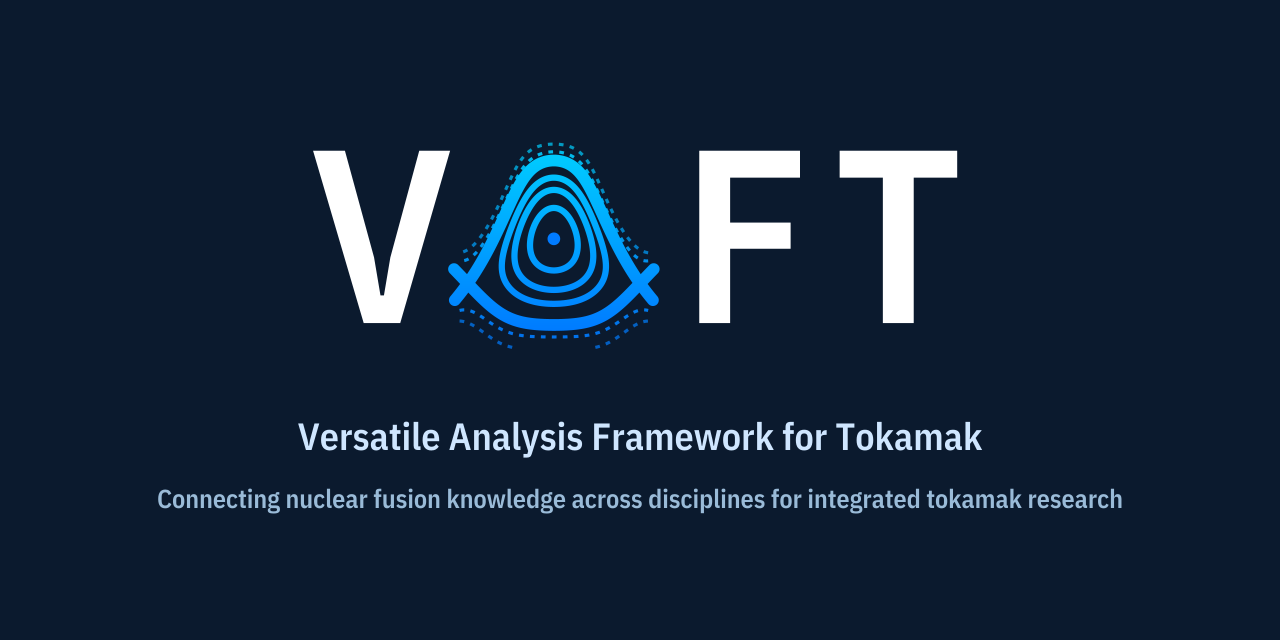
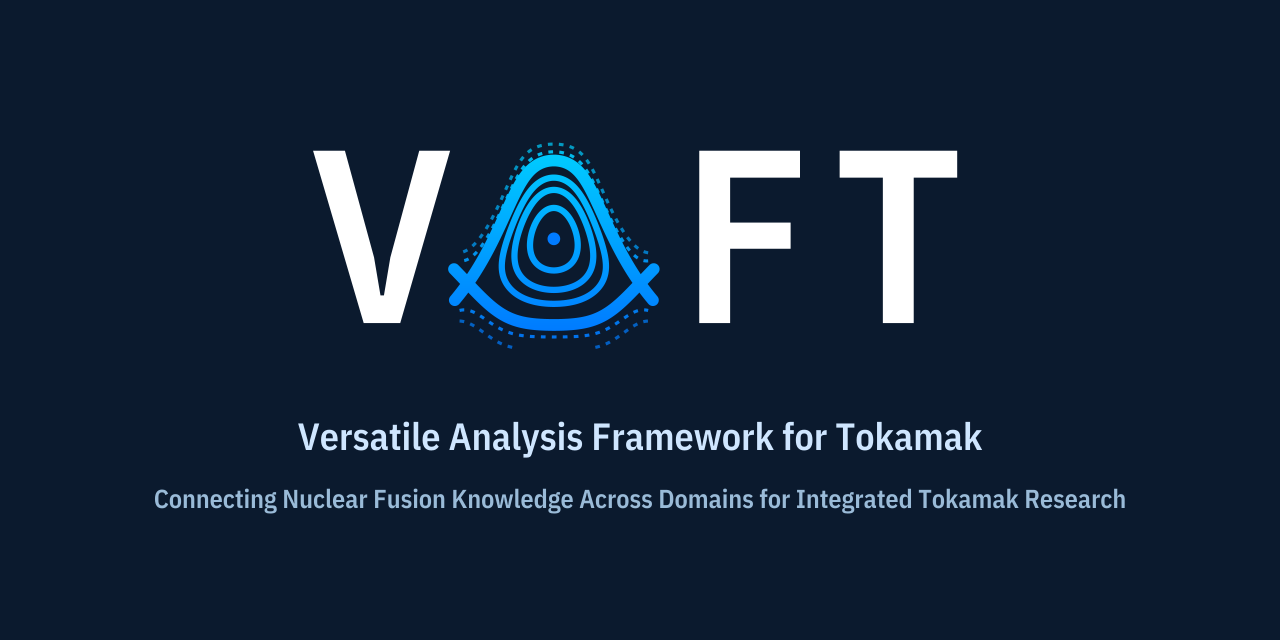
Add the Research domains reference and the 'Across Domains' tagline (#1872)
/reference/research-domains/ separates research modes, physics domains,
research activities, computational layers, scientific representations and
applicability domains, shows how modes and domains intersect with the
existing components, and walks equilibrium research through one shared
representation. It reuses the canonical diagrams; no new diagram, class
or vocabulary. Back-links from Scientific architecture, Diagrams, Ontology
and the homepage.

The owner approved the tagline 'Connecting Nuclear Fusion Knowledge
Across Domains for Integrated Tokamak Research'; the page defines that
scope. Synchronized in both READMEs, the homepage hero, the brand
generator and the regenerated social preview, and the consistency tests.

Changed region(s): [[0.2812, 0.75, 0.875, 0.8125], [0.125, 0.75, 0.25, 0.8125]]

diff --git a/docs/tests/visual/docs.spec.js b/docs/tests/visual/docs.spec.js
@@ -23,7 +23,7 @@ test('homepage exposes equal workflow and reference entry paths', async ({ page 
 test('homepage hero keeps the approved message and readable theme logo', async ({ page }) => {
   await page.goto('');
   await expect(page.locator('.vaft-hero-tagline')).toHaveText(
-    'Connecting nuclear fusion knowledge across disciplines for integrated tokamak research',
+    'Connecting Nuclear Fusion Knowledge Across Domains for Integrated Tokamak Research',
   );
   await expect(page.locator('.vaft-hero-summary')).toHaveText(
     'Machine-agnostic workflows for interoperable IMAS data and reproducible tokamak analysis.',

diff --git a/test/test_readme_consistency.py b/test/test_readme_consistency.py
@@ -14,10 +14,10 @@ KOREAN = ROOT / "README.ko.md"
 NOTICES = ROOT / "THIRD_PARTY_NOTICES.md"
 NOTICES_KO = ROOT / "THIRD_PARTY_NOTICES.ko.md"
 
-#: The approved #1763 brand message leads both language versions.
+#: The approved brand message (#1763, "domains" wording approved in #1872) leads both language versions.
 CORE_MESSAGES = {
-    ENGLISH: "Connecting nuclear fusion knowledge across disciplines for integrated tokamak research",
-    KOREAN: "여러 분야의 핵융합 지식을 연결해 통합적인 토카막 연구를 돕습니다",
+    ENGLISH: "Connecting Nuclear Fusion Knowledge Across Domains for Integrated Tokamak Research",
+    KOREAN: "여러 연구 영역의 핵융합 지식을 연결해 통합적인 토카막 연구를 돕습니다",
 }
 
 #: Capabilities that must not be described as current functionality (#330 §4).

diff --git a/docs/assets/brand/make_brand_assets.py b/docs/assets/brand/make_brand_assets.py
@@ -37,7 +37,7 @@ from vaft.process.equilibrium import (
 
 HERE = Path(__file__).resolve().parent
 WORDMARK_FONT = HERE / "fonts" / "IBMPlexSansCondensed-SemiBold.ttf"
-TAGLINE = "Connecting nuclear fusion knowledge across disciplines for integrated tokamak research"
+TAGLINE = "Connecting Nuclear Fusion Knowledge Across Domains for Integrated Tokamak Research"
 
 R0, A_MINOR, KAPPA, DELTA = 1.0, 0.55, 1.75, 0.45
 BRANCH_LENGTH = 0.13 * 1.5        # natural local branch x lengthening factor [R0]

diff --git a/docs/_guide/Research_domains.md b/docs/_guide/Research_domains.md
@@ -1,0 +1,145 @@
+---
+title: Research domains
+author: VEST team
+date: 2026-10-10 09:00
+category: guide
+layout: post
+permalink: /reference/research-domains/
+guide:
+  architecture: "The conceptual map of what VAFT connects: research modes, physics domains, research activities and scientific states, and how they meet through standardized representations (issue #1872). It defines no runtime abstraction and no new vocabulary."
+  prerequisites: None. The Scientific architecture page says how the software is organized; this page says what research it serves.
+  expected: "Which word to use for which classification, why experiment, theory, modelling and AI/ML are not physics domains, and how one physics question (equilibrium) is answered by several research modes through one shared representation."
+related:
+  api: [diagram, imas]
+---
+
+VAFT's tagline is *Connecting Nuclear Fusion Knowledge Across Domains for Integrated Tokamak Research*. In
+that sentence, **domains** has a defined scope: the **research modes** that produce and use knowledge
+(experiment, theory, modelling, AI/ML) *and* the **physics domains** that knowledge is about (equilibrium,
+stability, transport, ...). VAFT connects them through standardized scientific states. It replaces neither
+the modes nor the specialized codes of each domain.
+
+This page fixes the vocabulary. It introduces no runtime class, registry or ontology: every term below is
+already used by a VAFT page, diagram or registry, and each section links to the one that owns it.
+
+## Six classifications that overlap
+
+These are different questions about the same work, not one hierarchy. A single analysis has a place on
+every axis at once.
+
+| Classification | Answers | Examples | Owned by |
+| --- | --- | --- | --- |
+| **Research modes** | How is knowledge produced, evaluated and applied? | Experiment, Theory, Modelling & Simulation, Data-driven methods (AI/ML) | the common-model diagrams below |
+| **Physics domains** | What is it about? | Equilibrium, MHD stability, transport and turbulence, plasma initiation, impurities | the subjects of [`vaft.plot.taxonomy`]({{ '/reference/ontology/' | relative_url }}) and the [Computational layers]({{ '/reference/computational-layers/' | relative_url }}) granularity rule |
+| **Research activities** | What is being done? | Planning, measurement, processing, reconstruction, modelling, validation, synthesis | the [fusion research ecosystem](#research-activities-and-scientific-states) |
+| **Computational layers** | Where does the computation live in VAFT? | Formula, Process, Code | [Computational layers]({{ '/reference/computational-layers/' | relative_url }}) |
+| **Scientific representations** | How is the result stored and exchanged? | IMAS IDS, OMAS `ODS`, the planned `DD`/`DDView` | [Fusion data structure and IMAS concepts]({{ '/reference/imas-concepts/' | relative_url }}) |
+| **Applicability domains** | Under which conditions is a model or result valid? | Parameter ranges, plasma regimes, ordering assumptions | [Credibility and applicability]({{ '/reference/credibility-applicability/' | relative_url }}), [Plasma models, orderings, and scales]({{ '/reference/plasma-models/' | relative_url }}) |
+
+Two consequences matter in practice:
+
+- **A research mode is not a physics domain.** Experiment and modelling both study equilibrium, and
+  equilibrium is studied by all four modes. "Theory" is never a subject area here, and "equilibrium" is never a
+  method.
+- **A physics domain is not a computational layer.** Equilibrium work spans a Formula (Solov'ev), a Process
+  (flux-surface geometry), and Codes (EFIT, CHEASE, TokaMaker). Several codes in one physics domain do not
+  make a shared abstraction by themselves ([When an Actor is justified]({{ '/reference/computational-layers/' | relative_url }}#when-an-actor-is-justified)).
+
+### Which word to use
+
+- **Research modes** for experiment, theory, modelling and simulation, and data-driven methods (AI/ML).
+- **Physics domains** for subject areas and physical processes.
+- **Research domains** only with its scope stated, as the tagline does: the modes and the physics domains together.
+- **Research activities** for what researchers do; **research roles** for who does it (a person may combine roles).
+- **Application contexts** for where the science is used: existing fusion experiments, and future devices and
+  reactor concepts (the two contexts of `machine_agnostic_architecture`).
+
+`domain` keeps its established technical meanings, and nothing is renamed: `PlotSpec.domain` is the IDS a plot
+reads, `integrated_scientific_framework(domain="equilibrium")` selects a physics domain, and an applicability
+domain is a validity range. Each is unambiguous in its own context.
+
+## Research modes and physics domains intersect
+
+Every cell below is an existing VAFT component; a dash means VAFT has none today. The rows are physics
+domains and the columns are research modes, so one row is one physics question answered several ways.
+
+| Physics domain | Experiment | Theory | Modelling & simulation | Data-driven (AI/ML) |
+| --- | --- | --- | --- | --- |
+| Equilibrium | magnetics mapping and EFIT reconstruction (`vaft.code.efit`) | Solov'ev equilibria (`vaft.process.equilibrium.solovev_*`), virial and shape formulas (`vaft.formula`) | CHEASE, TokaMaker (`vaft.code`) | — |
+| MHD stability | spectral analysis of measured fluctuations (`vaft.process.fluctuation`) | stability formulas, ordering parameters and analytic islands (`vaft.formula.stability`, `vaft.formula.ordering`, `vaft.process.magnetic_island`) | DCON, RDCON, STRIDE, GPEC (`vaft.code.gpec`) | the learned-model backbone (`vaft.process.ml`) |
+| Transport and turbulence | Thomson and charge-exchange profile fits (`vaft.process.profile`) | neoclassical and confinement-scaling formulas (`vaft.formula.neoclassical`, `vaft.formula.equilibrium`) | TGLF, NEO, CGYRO, NUBEAM (`vaft.code.gacode`, `vaft.code.nubeam`) | TGLF neural-network surrogates (`vaft.code.gacode.tglf.surrogate`) |
+| Plasma initiation | signal-onset and active-window detection (`vaft.process.onset`) | Townsend and start-up formulas (`vaft.formula.startup`) | vacuum-field and eddy-current models (`vaft.process.electromagnetics`) | — |
+
+The diagrams draw the same intersection for one domain. The four modes sit around one common data model, and
+with `domain="equilibrium"` each mode's representative equilibrium route appears:
+
+![Integrated scientific framework: equilibrium]({{ '/assets/diagrams/integrated_scientific_framework_equilibrium.svg' | relative_url }})
+
+## Research activities and scientific states
+
+Research activities are what the modes do, and scientific states are what passes between them. The ecosystem
+figure (#1643) arranges research roles, six activity groups and the shared states:
+
+- **Activities**: Ask & Plan; Produce & Observe; Process & Infer; Model & Predict; Test & Synthesize;
+  Preserve & Transfer.
+- **States**: planned, measured, processed, reconstructed, simulated, predicted, and qualified.
+
+Experiment and simulation are parallel producers of states that differ in kind. A measured state is never a
+reconstructed one, and a derived number is never a measurement. Validation and synthesis turn states into
+*qualified* states and feed new questions back into planning.
+
+![The fusion-research ecosystem]({{ '/assets/diagrams/fusion_research_ecosystem.svg' | relative_url }})
+
+## Scientific integration through VAFT
+
+Integration is the connection between modes and domains. It is not a mode or a domain itself. Two layers do
+the work and stay distinct:
+
+- **IMAS, the Common Data Model**, defines what a scientific state *means* and how it is represented: the
+  equilibrium IDS, the magnetics IDS, and so on. With a common model, each mode needs one adapter instead of
+  one per partner.
+- **VAFT, the integrated scientific framework**, connects, runs, compares and reproduces research through that
+  model. It provides the machine mappings, the domain computation (Formula, Process, Code), workflows,
+  provenance, validation and analysis.
+
+The ontology explorer adds a third, separate thing: the semantic relations among concepts, diagnostics,
+representations, codes and checks. It describes the vocabulary. It does not own the data or the computation.
+
+![With a common model]({{ '/assets/diagrams/experiment_modeling_theory_data_network.svg' | relative_url }})
+![Integrated scientific framework]({{ '/assets/diagrams/integrated_scientific_framework.svg' | relative_url }})
+
+## Worked example: equilibrium research
+
+One physics domain, four research modes, one representation:
+
+1. **Experiment.** Magnetics (flux loops, B-probes, Rogowski coils, diamagnetic loop) are mapped from VEST's
+   native data into the IMAS `magnetics` IDS ([Experimental interpretation]({{ '/workflows/experimental-interpretation/' | relative_url }})).
+2. **Reconstruction.** EFIT turns those measurements into a reconstructed equilibrium in the IMAS
+   `equilibrium` IDS: a *reconstructed* state, not a measured one.
+3. **Modelling.** CHEASE refines the equilibrium, and TokaMaker solves free-boundary equilibria from coil
+   currents. Both read and write the same `equilibrium` IDS ([Equilibrium and kinetic profiles]({{ '/workflows/equilibrium-kinetic-profiles/' | relative_url }})).
+4. **Theory.** Solov'ev solutions and the virial and shape formulas give closed-form references that the numerical
+   routes are checked against.
+5. **Data-driven inference.** A learned model can fill the same representation. VAFT has the backbone
+   (`vaft.process.ml`), but no equilibrium model ships today.
+6. **Comparison and analysis.** Because every route lands in one representation, they can be compared
+   directly. That comparison covers shape, $q_{95}$, $\beta$, $\ell_i$ and the operational space, and it is
+   what validation then qualifies ([Plasma parameter inference]({{ '/workflows/plasma-parameter-inference/' | relative_url }})).
+
+The physics domain stayed the same throughout; what changed was the research mode, the activity and the
+state. In the ontology explorer, search `equilibrium` to see the same subject linked to its diagnostics, IDS,
+plots and checks.
+
+## Relationship to the architecture
+
+| Question | Page |
+| --- | --- |
+| How is VAFT organized as software, and where does new code go? | [Scientific architecture]({{ '/reference/scientific-architecture/' | relative_url }}) |
+| What are Formula, Process and Code? | [Computational layers]({{ '/reference/computational-layers/' | relative_url }}) |
+| What do the concepts mean, and how are they related? | [Scientific ontology explorer]({{ '/reference/ontology/' | relative_url }}) |
+| How is scientific data represented? | [Fusion data structure and IMAS concepts]({{ '/reference/imas-concepts/' | relative_url }}) |
+| Which physical model does a computation represent? | [Plasma models, orderings, and scales]({{ '/reference/plasma-models/' | relative_url }}) |
+| Every canonical figure | [Diagrams]({{ '/reference/diagrams/' | relative_url }}) |
+
+**Not on this page:** a `ResearchDomain` class, a registry of domains or modes, or any change to an API name.
+If a runtime need appears, it gets its own issue.

diff --git a/docs/_guide/Ontology.md b/docs/_guide/Ontology.md
@@ -22,7 +22,8 @@ produced what. This one shows **what things mean**: plasma current, the diagnost
 it, the Data Dictionary path that represents it, the plots that draw it and the checks that assess
 it. The three never share edges, and an import or a pipeline dependency is never read as a
 scientific relation. How the three views relate is mapped on
-[Scientific architecture]({{ site.baseurl }}/reference/scientific-architecture/).
+[Scientific architecture]({{ site.baseurl }}/reference/scientific-architecture/); which research modes and
+physics domains its concepts serve is set out on [Research domains]({{ site.baseurl }}/reference/research-domains/).
 
 Nothing here is written by hand. Every node and edge comes from a registry that already owns the
 fact and says which (*From* in the detail panel):

diff --git a/docs/_guide/Diagrams.md b/docs/_guide/Diagrams.md
@@ -1460,7 +1460,9 @@ vaft.diagram.machine_research_archive()
 ![Machine and research archive]({{ '/assets/diagrams/machine_research_archive.svg' | relative_url }})
 
 The interoperability figures read as one progression, from data interoperability through scientific
-integration to infrastructure and implementation:
+integration to infrastructure and implementation. Their four nodes are research modes, not physics domains;
+[Research domains]({{ '/reference/research-domains/' | relative_url }}) sets out how the two classifications
+cross:
 
 1. pairwise interfaces, `experiment_modeling_theory_data_network("point_to_point")`;
 2. a shared scientific representation, `experiment_modeling_theory_data_network("common_model")`;

diff --git a/docs/_guide/Scientific_architecture.md b/docs/_guide/Scientific_architecture.md
@@ -245,4 +245,5 @@ These follow existing decisions and add none. VAFT is not meant to become:
   computation represents. This page says only where it lives.
 - [Fusion data structure and IMAS concepts]({{ '/reference/imas-concepts/' | relative_url }}): the IMAS data model.
 - [Database and data sources]({{ '/reference/database-data-sources/' | relative_url }}): retrieval and persistence.
+- [Research domains]({{ '/reference/research-domains/' | relative_url }}): the research modes and physics domains this architecture serves, and how they meet.
 - [Diagrams]({{ '/reference/diagrams/' | relative_url }}): every canonical architecture and concept figure.

diff --git a/README.ko.md b/README.ko.md
@@ -9,7 +9,7 @@
 
 [English](README.md) | 한국어 · [PyPI](https://pypi.org/project/vaft/) · [라이선스](LICENSE)
 
-> **여러 분야의 핵융합 지식을 연결해 통합적인 토카막 연구를 돕습니다**
+> **여러 연구 영역의 핵융합 지식을 연결해 통합적인 토카막 연구를 돕습니다**
 
 **VAFT는 IMAS 데이터 구조를 활용해 토카막 데이터를 정리하고 분석하는 과학 프레임워크입니다.** 실험 데이터, 재구성된 플라즈마 상태, 시뮬레이션 결과와 분석 과정을 공통 데이터 구조와 기록된 처리 이력으로 연결합니다.
 

diff --git a/README.md b/README.md
@@ -9,7 +9,7 @@
 
 English | [한국어](README.ko.md) · [PyPI](https://pypi.org/project/vaft/) · [License](LICENSE)
 
-> **Connecting nuclear fusion knowledge across disciplines for integrated tokamak research**
+> **Connecting Nuclear Fusion Knowledge Across Domains for Integrated Tokamak Research**
 
 **VAFT is a scientific framework for organizing and analyzing tokamak data using IMAS structures.** It connects experimental data, reconstructed plasma states, simulation results, and analysis workflows through shared data structures and recorded processing history.
 
